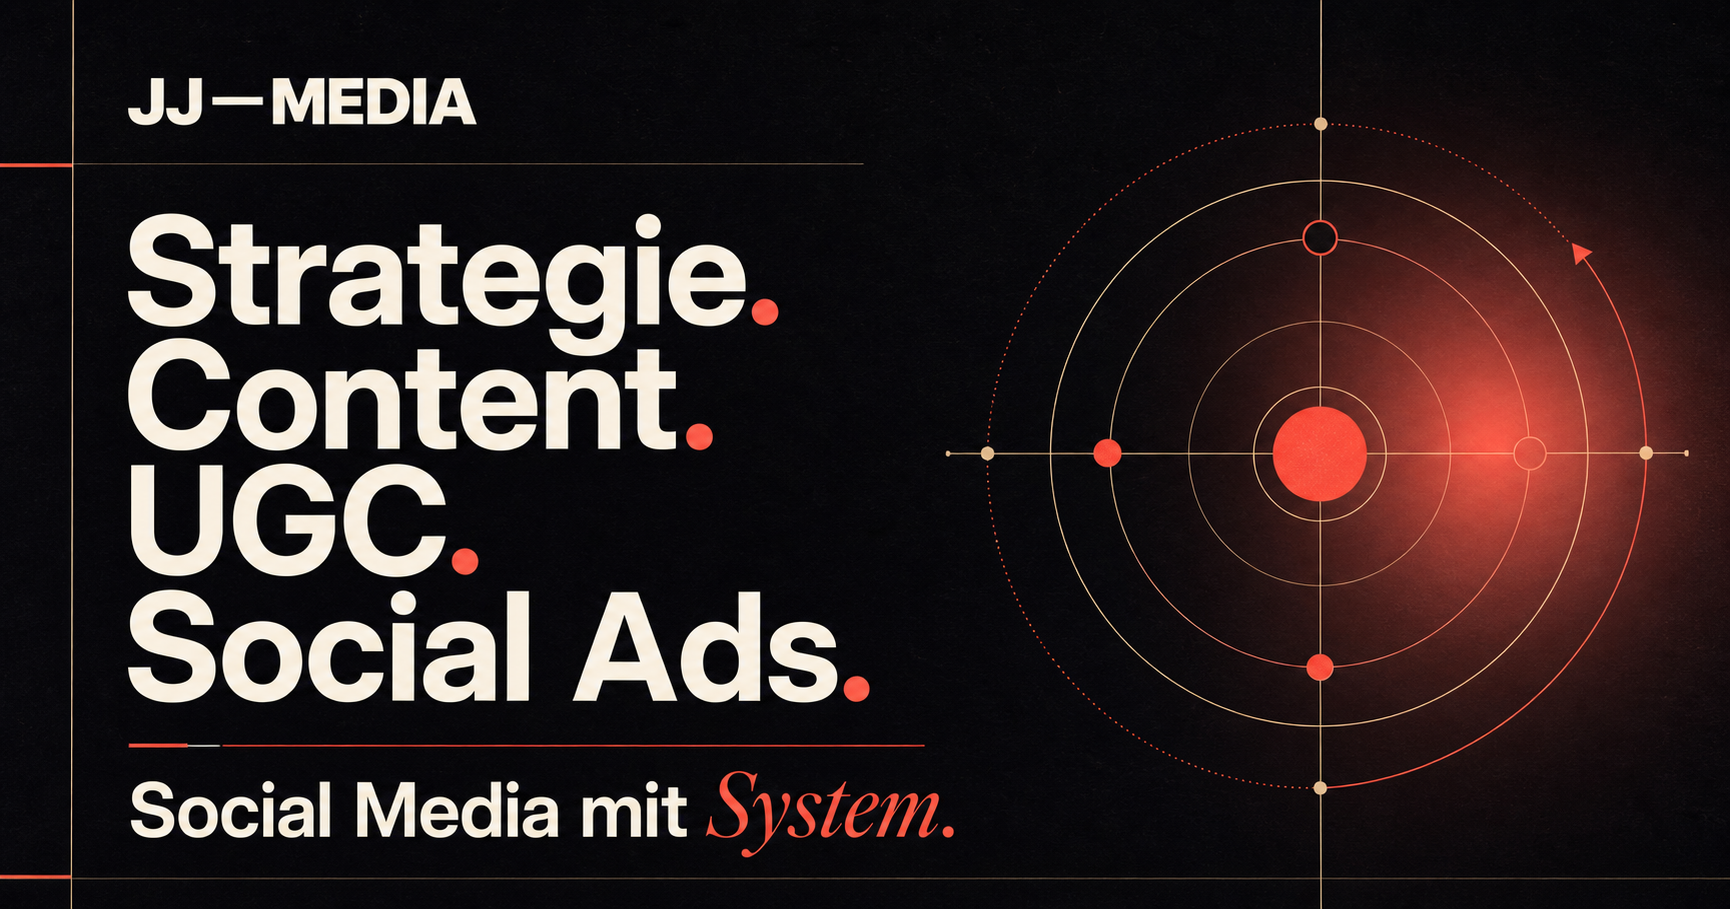
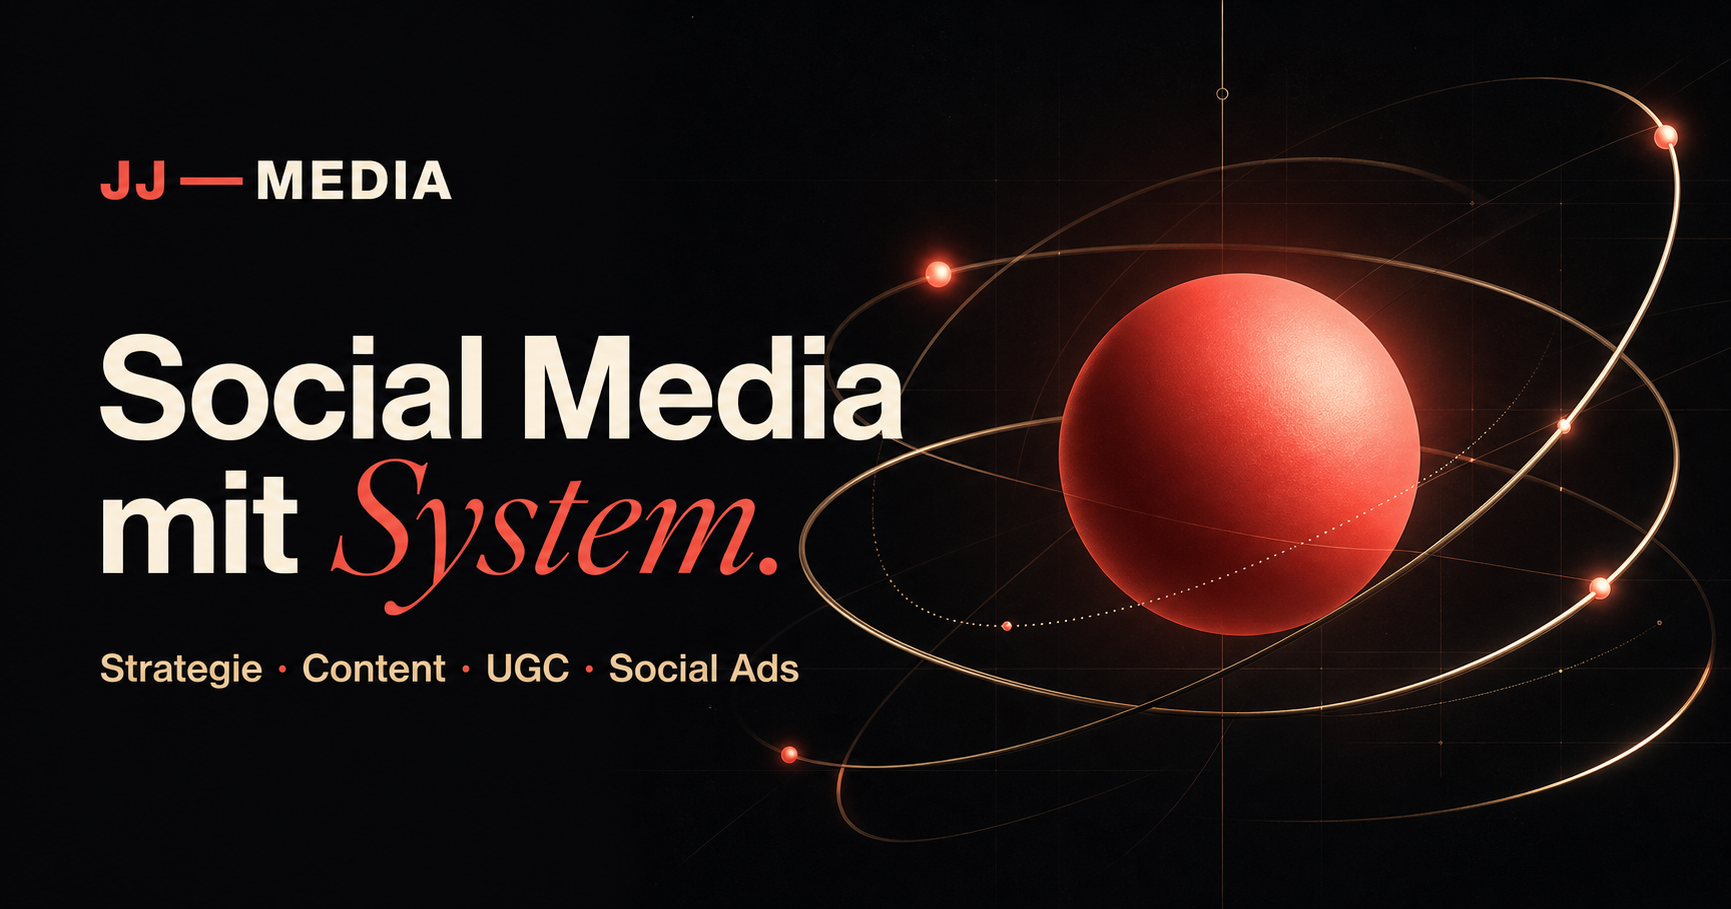
Add premium 3D motion experience

diff --git a/jj-media-payload-runtime-fixed/src/components/site/ExperienceLayer.tsx b/jj-media-payload-runtime-fixed/src/components/site/ExperienceLayer.tsx
@@ -1,0 +1,84 @@
+'use client'
+
+import { useEffect } from 'react'
+
+export function ExperienceLayer() {
+  useEffect(() => {
+    const root = document.documentElement
+    const progress = document.querySelector<HTMLElement>('.scroll-progress > i')
+    const reducedMotion = window.matchMedia('(prefers-reduced-motion: reduce)')
+    const finePointer = window.matchMedia('(pointer: fine)')
+    let frame = 0
+
+    const updateScroll = () => {
+      if (frame) return
+      frame = requestAnimationFrame(() => {
+        const maximum = document.documentElement.scrollHeight - window.innerHeight
+        const value = maximum > 0 ? Math.min(1, window.scrollY / maximum) : 0
+        progress?.style.setProperty('--scroll-progress', String(value))
+        root.style.setProperty('--page-y', `${window.scrollY}px`)
+        frame = 0
+      })
+    }
+
+    const updatePointer = (event: PointerEvent) => {
+      root.style.setProperty('--pointer-x', `${event.clientX}px`)
+      root.style.setProperty('--pointer-y', `${event.clientY}px`)
+      root.style.setProperty('--pointer-x-ratio', String(event.clientX / window.innerWidth - 0.5))
+      root.style.setProperty('--pointer-y-ratio', String(event.clientY / window.innerHeight - 0.5))
+    }
+
+    const cards = Array.from(document.querySelectorAll<HTMLElement>(
+      '.growth-system, .work-card, .pain-card, .offer-card, .post-card, .showreel-banner, .promise-card',
+    ))
+    const cleanups: Array<() => void> = []
+
+    if (!reducedMotion.matches && finePointer.matches) {
+      cards.forEach((card) => {
+        card.classList.add('motion-3d')
+        const move = (event: PointerEvent) => {
+          const bounds = card.getBoundingClientRect()
+          const x = (event.clientX - bounds.left) / bounds.width - 0.5
+          const y = (event.clientY - bounds.top) / bounds.height - 0.5
+          card.style.setProperty('--tilt-x', `${y * -7}deg`)
+          card.style.setProperty('--tilt-y', `${x * 8}deg`)
+          card.style.setProperty('--shine-x', `${(x + 0.5) * 100}%`)
+          card.style.setProperty('--shine-y', `${(y + 0.5) * 100}%`)
+          card.style.setProperty('--lift', '-7px')
+        }
+        const leave = () => {
+          card.style.setProperty('--tilt-x', '0deg')
+          card.style.setProperty('--tilt-y', '0deg')
+          card.style.setProperty('--lift', '0px')
+        }
+        card.addEventListener('pointermove', move)
+        card.addEventListener('pointerleave', leave)
+        cleanups.push(() => {
+          card.removeEventListener('pointermove', move)
+          card.removeEventListener('pointerleave', leave)
+        })
+      })
+      window.addEventListener('pointermove', updatePointer, { passive: true })
+    }
+
+    updateScroll()
+    window.addEventListener('scroll', updateScroll, { passive: true })
+    window.addEventListener('resize', updateScroll, { passive: true })
+
+    return () => {
+      cancelAnimationFrame(frame)
+      window.removeEventListener('scroll', updateScroll)
+      window.removeEventListener('resize', updateScroll)
+      window.removeEventListener('pointermove', updatePointer)
+      cleanups.forEach((cleanup) => cleanup())
+    }
+  }, [])
+
+  return (
+    <>
+      <div aria-hidden="true" className="scroll-progress"><i/></div>
+      <div aria-hidden="true" className="pointer-light"/>
+      <div aria-hidden="true" className="site-grain"/>
+    </>
+  )
+}

diff --git a/jj-media-payload-runtime-fixed/src/app/(frontend)/globals.css b/jj-media-payload-runtime-fixed/src/app/(frontend)/globals.css
@@ -373,5 +373,34 @@ footer{padding:95px 0 32px}.footer-kicker{display:flex;align-items:center;gap:10
 @media(prefers-reduced-motion:reduce){*{scroll-behavior:auto!important}.reveal{opacity:1!important;transform:none!important;transition:none!important}.work-card,.ugc-card img,.service-line,.btn{transition:none!important}}
 .showreel-banner{display:grid;grid-template-columns:1.15fr .85fr 90px;align-items:center;min-height:330px;background:var(--ink);color:white;border-radius:30px;overflow:hidden;margin-bottom:14px}.showreel-banner>img{width:100%;height:100%;min-height:330px;object-fit:cover;opacity:.75}.showreel-banner>div{padding:35px}.showreel-banner h3{font-size:clamp(1.8rem,3vw,3.4rem);line-height:.98;letter-spacing:-.05em;margin:13px 0}.showreel-banner p{color:#a7a1ab;margin:0}.showreel-banner>b{width:68px;height:68px;border-radius:50%;background:var(--coral);display:grid;place-items:center;font-size:.72rem}.ugc-format{position:absolute;right:0;bottom:0;border:1px solid rgba(255,255,255,.35);border-radius:999px;padding:7px 9px;font-size:.58rem;letter-spacing:.1em}.insights-index .post-card h2{font-size:clamp(1.5rem,2.4vw,2.35rem);line-height:1.02;margin:.9rem 0}
 .article-cta{margin:70px 0 20px;padding:clamp(28px,5vw,55px);border-radius:30px;background:var(--ink);color:white}.article-cta h2{font-size:clamp(2rem,4vw,4rem);line-height:1;letter-spacing:-.055em;margin:16px 0}.article-cta p{max-width:650px;color:#aaa4ad;line-height:1.7;margin-bottom:28px}
+
+/* cinematic interaction layer */
+.scroll-progress{position:fixed;z-index:250;inset:0 0 auto;height:3px;pointer-events:none}.scroll-progress>i{display:block;width:100%;height:100%;background:linear-gradient(90deg,var(--coral),var(--rose),var(--champagne));transform:scaleX(var(--scroll-progress,0));transform-origin:left;box-shadow:0 0 24px rgba(237,83,110,.65)}
+.pointer-light{position:fixed;z-index:140;left:0;top:0;width:520px;height:520px;border-radius:50%;pointer-events:none;transform:translate(calc(var(--pointer-x,-800px) - 50%),calc(var(--pointer-y,-800px) - 50%));background:radial-gradient(circle,rgba(237,83,110,.085),rgba(244,179,189,.025) 38%,transparent 70%);mix-blend-mode:multiply;transition:opacity .3s}
+.site-grain{position:fixed;z-index:240;inset:0;pointer-events:none;opacity:.05;background-image:repeating-radial-gradient(circle at 17% 31%,rgba(0,0,0,.22) 0 1px,transparent 1px 4px);background-size:7px 9px;mix-blend-mode:multiply}
+.motion-3d{--tilt-x:0deg;--tilt-y:0deg;--lift:0px;transform:perspective(1100px) rotateX(var(--tilt-x)) rotateY(var(--tilt-y)) translateY(var(--lift));transform-style:preserve-3d;transition:transform .16s cubic-bezier(.2,.8,.2,1),box-shadow .35s;will-change:transform}
+.motion-3d:before{content:'';position:absolute;z-index:4;inset:0;border-radius:inherit;pointer-events:none;background:radial-gradient(circle at var(--shine-x,50%) var(--shine-y,50%),rgba(255,255,255,.16),transparent 34%);opacity:0;transition:opacity .25s}
+.motion-3d:hover:before{opacity:1}.motion-3d>*{transform-style:preserve-3d}.motion-3d:hover{box-shadow:0 35px 90px rgba(17,16,20,.22)}
+
+/* 3D growth system */
+.spatial-scene{height:290px;position:relative;margin:14px 0 5px;border-radius:24px;overflow:hidden;perspective:850px;background:radial-gradient(circle at 50% 52%,rgba(237,83,110,.2),transparent 32%),linear-gradient(145deg,rgba(255,255,255,.045),rgba(255,255,255,.008));border:1px solid rgba(255,255,255,.08)}
+.spatial-scene:after{content:'';position:absolute;inset:0;background:linear-gradient(100deg,transparent 35%,rgba(255,255,255,.08) 49%,transparent 63%);transform:translateX(-120%);animation:spatial-scan 7s ease-in-out infinite}
+.spatial-grid{position:absolute;inset:-40%;transform:rotateX(68deg) translateY(32%);background-image:linear-gradient(rgba(255,255,255,.055) 1px,transparent 1px),linear-gradient(90deg,rgba(255,255,255,.055) 1px,transparent 1px);background-size:34px 34px;mask-image:radial-gradient(circle,#000,transparent 67%);animation:grid-drift 12s linear infinite}
+.spatial-core{position:absolute;z-index:4;left:50%;top:50%;width:88px;height:88px;border-radius:50%;transform:translate(-50%,-50%) translateZ(55px);display:grid;place-content:center;text-align:center;background:radial-gradient(circle at 35% 28%,#ff8c83,var(--coral) 48%,#a51e34);box-shadow:0 0 30px rgba(237,83,110,.55),0 0 90px rgba(237,83,110,.2),inset -12px -14px 25px rgba(55,6,17,.24);animation:core-breathe 3.2s ease-in-out infinite}.spatial-core span{font-size:1.6rem;font-weight:800;letter-spacing:-.08em}.spatial-core small{font-size:.47rem;line-height:1.15;letter-spacing:.12em;text-transform:uppercase;opacity:.72}
+.spatial-orbit{position:absolute;z-index:2;left:50%;top:50%;border:1px solid rgba(216,198,165,.42);border-radius:50%;transform-style:preserve-3d}.spatial-orbit i,.spatial-orbit b{position:absolute;width:10px;height:10px;border-radius:50%;background:var(--coral);box-shadow:0 0 20px rgba(237,83,110,.75)}.spatial-orbit-one{width:150px;height:150px;margin:-75px;transform:rotateX(66deg) rotateZ(0);animation:orbit-one 9s linear infinite}.spatial-orbit-one i{left:8px;top:33px}.spatial-orbit-one b{right:4px;bottom:38px}.spatial-orbit-two{width:220px;height:220px;margin:-110px;transform:rotateY(62deg) rotateZ(25deg);animation:orbit-two 13s linear infinite reverse}.spatial-orbit-two i{left:15px;bottom:45px}.spatial-orbit-two b{right:34px;top:12px;background:var(--champagne)}.spatial-orbit-three{width:265px;height:105px;margin:-52px -132px;transform:rotateZ(-18deg);animation:orbit-three 16s linear infinite}.spatial-orbit-three i{right:22px;top:8px;width:7px;height:7px;background:white}
+.spatial-chip{position:absolute;z-index:5;padding:7px 9px;border:1px solid rgba(255,255,255,.15);border-radius:999px;background:rgba(13,12,16,.7);backdrop-filter:blur(8px);font-size:.49rem;letter-spacing:.13em;color:#d8d2db;box-shadow:0 10px 30px rgba(0,0,0,.25);animation:chip-float 4s ease-in-out infinite}.chip-strategy{left:9%;top:15%}.chip-content{right:8%;top:27%;animation-delay:-1.4s}.chip-performance{left:14%;bottom:13%;animation-delay:-2.8s}.spatial-depth{position:absolute;right:13px;bottom:10px;font-size:.45rem;letter-spacing:.16em;color:#77717b}
+.premium-display{transform:translateZ(0)}.premium-display em{display:inline-block;text-shadow:0 15px 50px rgba(237,83,110,.22);animation:title-float 6s ease-in-out infinite}.premium-hero-copy{transform:translate3d(calc(var(--pointer-x-ratio,0) * -10px),calc(var(--pointer-y-ratio,0) * -7px),0);transition:transform .18s ease-out}.growth-system{transform:translate3d(calc(var(--pointer-x-ratio,0) * 15px),calc(var(--pointer-y-ratio,0) * 11px),0) rotate(1.2deg)}
+
+@keyframes spatial-scan{0%,22%{transform:translateX(-120%)}55%,100%{transform:translateX(120%)}}
+@keyframes grid-drift{to{background-position:34px 34px}}
+@keyframes core-breathe{50%{transform:translate(-50%,-50%) translateZ(70px) scale(1.06);box-shadow:0 0 42px rgba(237,83,110,.72),0 0 110px rgba(237,83,110,.28),inset -12px -14px 25px rgba(55,6,17,.24)}}
+@keyframes orbit-one{to{transform:rotateX(66deg) rotateZ(360deg)}}
+@keyframes orbit-two{to{transform:rotateY(62deg) rotateZ(385deg)}}
+@keyframes orbit-three{to{transform:rotateZ(342deg)}}
+@keyframes chip-float{50%{transform:translateY(-8px) translateZ(25px)}}
+@keyframes title-float{50%{transform:translateY(-5px)}}
+
+@media(max-width:900px){.pointer-light{display:none}.spatial-scene{height:260px}.premium-hero-copy,.growth-system{transform:none}.motion-3d{transform:none!important}.motion-3d:before{display:none}}
+@media(prefers-reduced-motion:reduce){.scroll-progress,.pointer-light{display:none}.spatial-scene *,.premium-display em{animation:none!important}.motion-3d{transform:none!important;transition:none!important}.premium-hero-copy,.growth-system{transform:none!important}}
 @media(max-width:900px){.showreel-banner{grid-template-columns:1fr 1fr}.showreel-banner>b{position:absolute;right:25px}.showreel-banner{position:relative}}
 @media(max-width:620px){.showreel-banner{grid-template-columns:1fr}.showreel-banner>img{min-height:240px}.showreel-banner>div{padding:25px}.showreel-banner>b{top:205px;width:55px;height:55px}}

diff --git a/jj-media-payload-runtime-fixed/src/components/site/HeroSpatial.tsx b/jj-media-payload-runtime-fixed/src/components/site/HeroSpatial.tsx
@@ -1,0 +1,15 @@
+export function HeroSpatial() {
+  return (
+    <div aria-hidden="true" className="spatial-scene">
+      <div className="spatial-grid"/>
+      <div className="spatial-orbit spatial-orbit-one"><i/><b/></div>
+      <div className="spatial-orbit spatial-orbit-two"><i/><b/></div>
+      <div className="spatial-orbit spatial-orbit-three"><i/></div>
+      <div className="spatial-core"><span>JJ</span><small>Growth<br/>System</small></div>
+      <span className="spatial-chip chip-strategy">STRATEGY</span>
+      <span className="spatial-chip chip-content">CONTENT</span>
+      <span className="spatial-chip chip-performance">PERFORMANCE</span>
+      <span className="spatial-depth">LIVE SIGNAL · DACH</span>
+    </div>
+  )
+}

diff --git a/jj-media-payload-runtime-fixed/src/app/(frontend)/layout.tsx b/jj-media-payload-runtime-fixed/src/app/(frontend)/layout.tsx
@@ -1,5 +1,6 @@
 import type { Metadata } from 'next'
 import { Footer } from '@/components/site/Footer'
+import { ExperienceLayer } from '@/components/site/ExperienceLayer'
 import { Header } from '@/components/site/Header'
 import { JsonLd } from '@/components/site/JsonLd'
 import { MobileStickyCTA } from '@/components/site/MobileStickyCTA'
@@ -25,6 +26,7 @@ export default async function FrontendLayout({ children }: { children: React.Rea
   const [settings, navigation] = await Promise.all([getGlobal('site-settings'), getGlobal('navigation')])
   return <html lang="de">
     <body>
+      <ExperienceLayer/>
       <JsonLd data={organizationJSONLD()} />
       <Header navigation={navigation}/>
       <main id="main" className="site-main">{children}</main>

diff --git a/jj-media-payload-runtime-fixed/src/app/(frontend)/page.tsx b/jj-media-payload-runtime-fixed/src/app/(frontend)/page.tsx
@@ -1,5 +1,6 @@
 import Link from 'next/link'
 import { FAQAccordion } from '@/components/site/FAQAccordion'
+import { HeroSpatial } from '@/components/site/HeroSpatial'
 import { TestimonialSlider } from '@/components/site/TestimonialSlider'
 import { UGCShowcase } from '@/components/site/UGCShowcase'
 import { getCollection } from '@/lib/cms'
@@ -53,6 +54,7 @@ export default async function Home() {
         </div>
         <div className="growth-system reveal" aria-label="JJ-Media Growth System">
           <div className="growth-system-head"><span className="eyebrow">JJ Growth System</span><b>01—05</b></div>
+          <HeroSpatial/>
           <div className="growth-card active"><span>01</span><div><strong>Analyse</strong><small>Erkennen, was bremst</small></div><i>●</i></div>
           <div className="growth-card"><span>02</span><div><strong>Strategie</strong><small>Positionierung mit Richtung</small></div><i>↗</i></div>
           <div className="growth-card"><span>03</span><div><strong>Content & UGC</strong><small>Aufmerksamkeit und Vertrauen</small></div><i>▶</i></div>